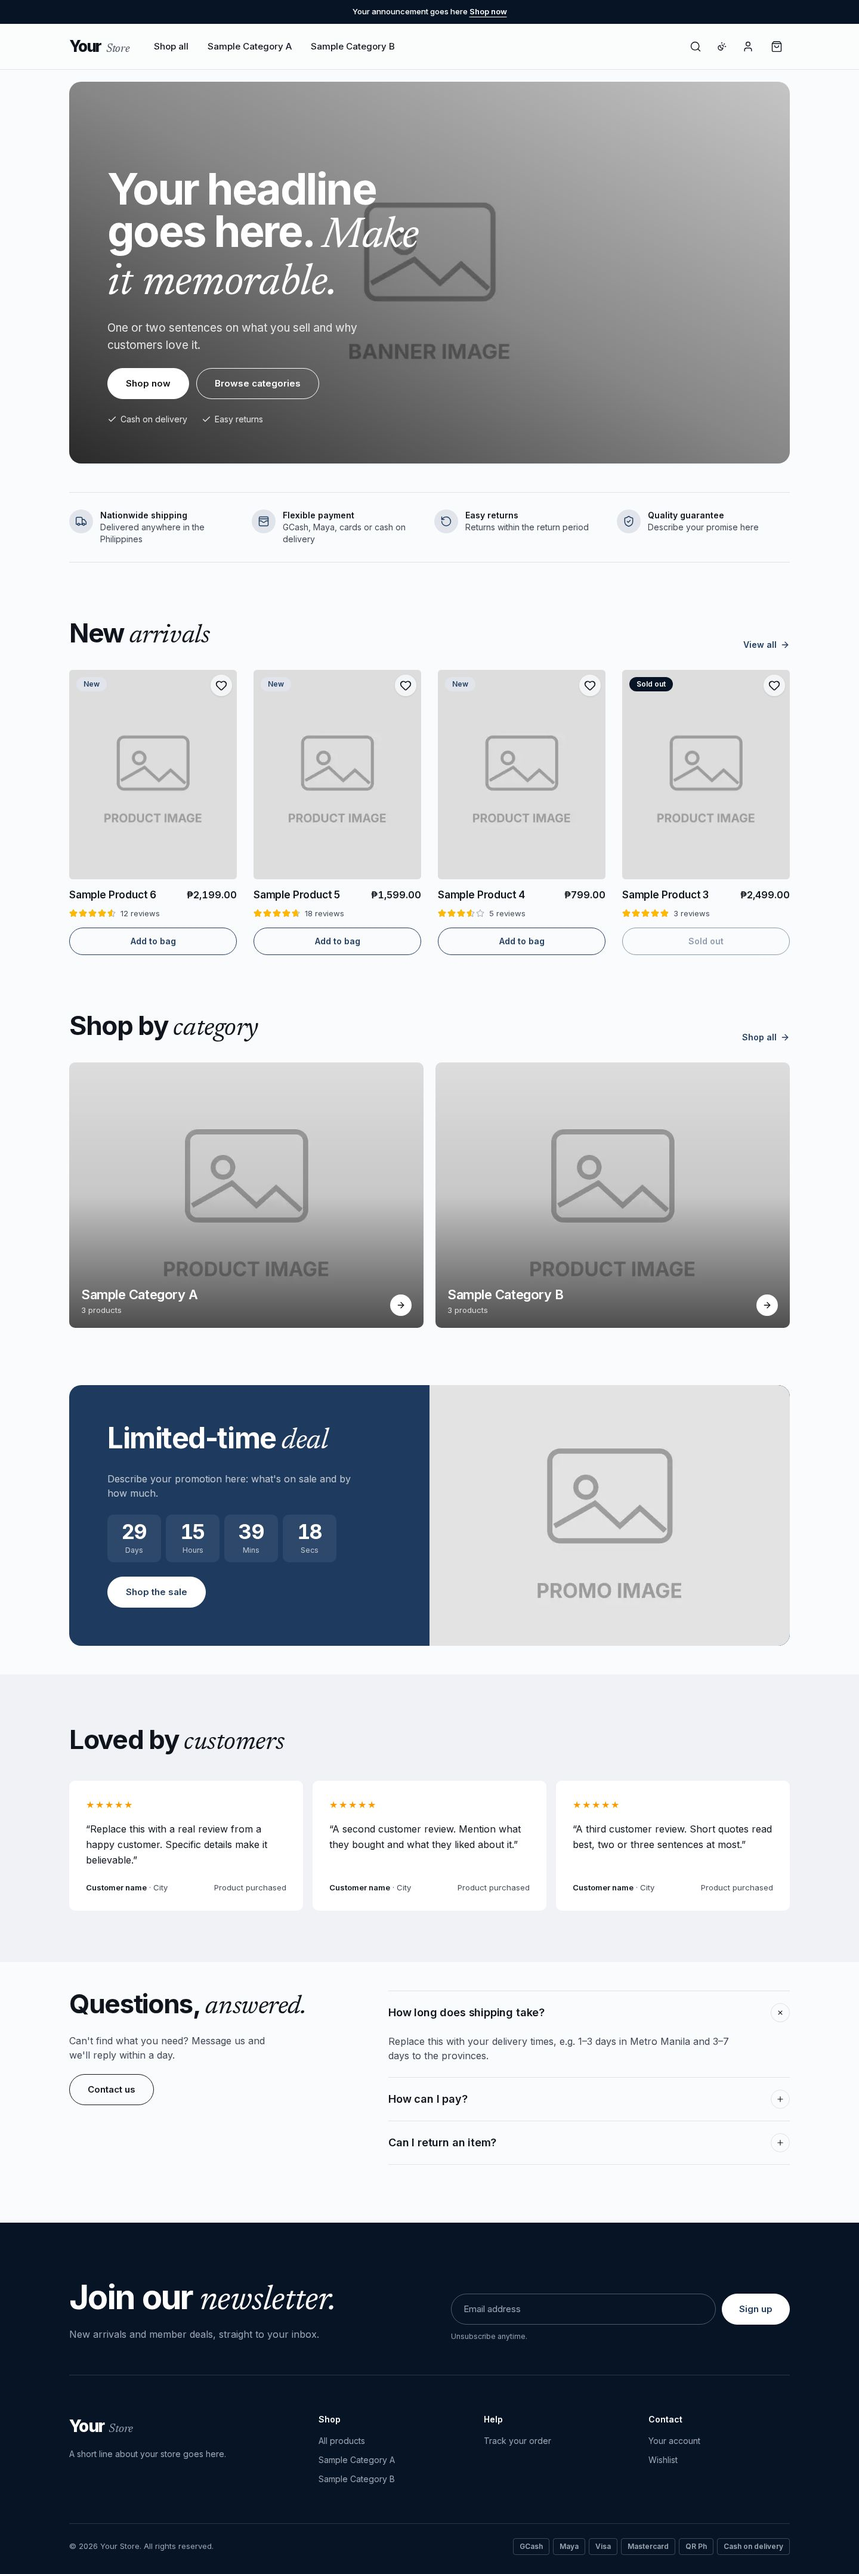
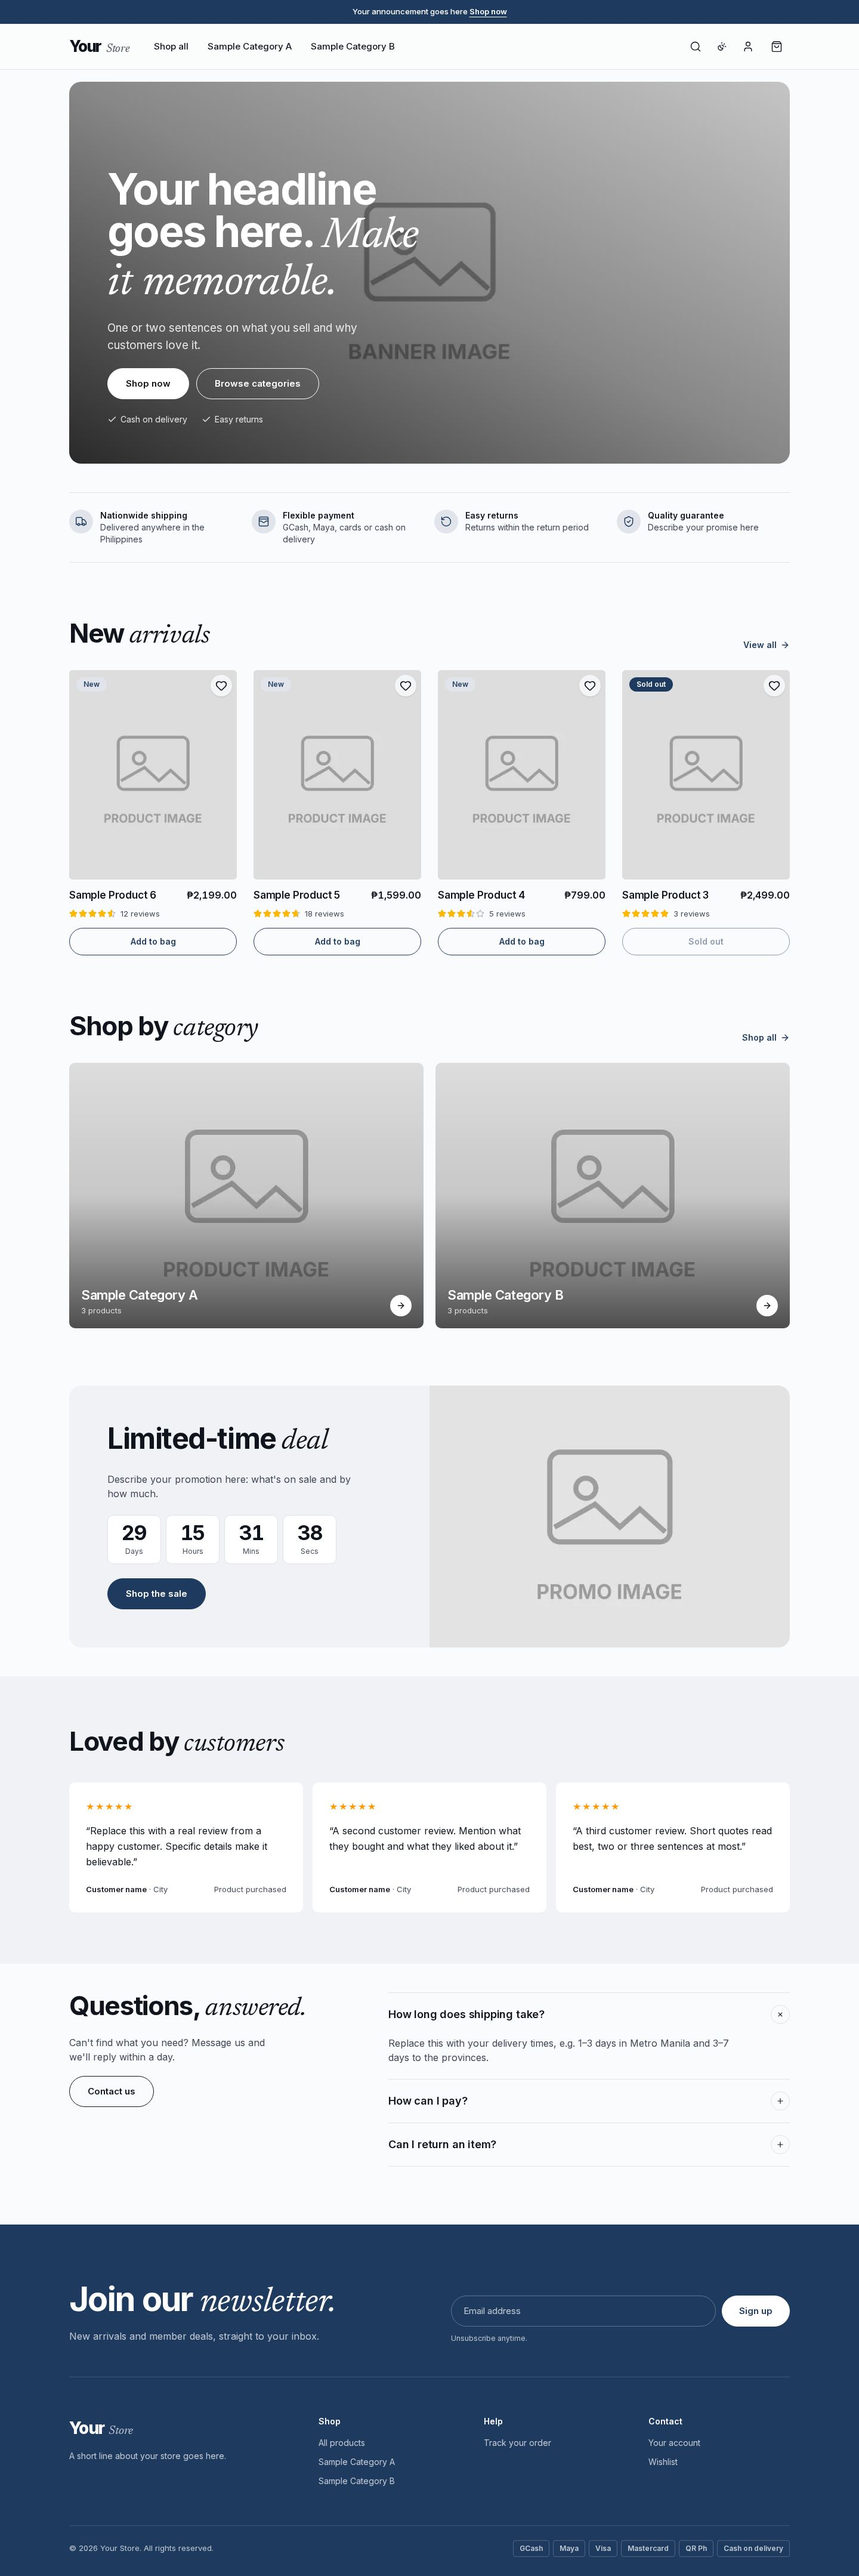
129 One dark color: accent footer, light deal card
The deal card was a block of saturated accent mid-page and the footer
a near-black shade of the accent, so the page had two competing darks.

- Footer and announcement bar use the accent itself, the same color as
  the buttons
- The deal card is a light tinted card with white countdown tiles and an
  accent button, so the urgency comes from the timer, not a color block

README screenshots retaken.

diff --git a/components/deal-countdown.tsx b/components/deal-countdown.tsx
@@ -44,11 +44,11 @@ const isFinished = (time: TimeRemaining) =>
   time.days + time.hours + time.minutes + time.seconds === 0;
 
 const StatBox = ({ label, value }: { label: string; value: number }) => (
-  <li className="flex flex-col items-center rounded-[var(--radius)] bg-[var(--tone-panel)] px-2 py-3">
+  <li className="flex flex-col items-center rounded-[var(--radius)] border bg-card px-2 py-3">
     <span className="text-[clamp(24px,2.6vw,34px)] font-bold leading-none tracking-[-0.03em] tabular-nums">
       {String(value).padStart(2, "0")}
     </span>
-    <span className="mt-1.5 text-xs text-[var(--tone-muted)]">{label}</span>
+    <span className="mt-1.5 text-xs text-muted-foreground">{label}</span>
   </li>
 );
 
@@ -76,13 +76,14 @@ const DealCountdown = ({
 
   return (
     <Section>
-      <div className="tone-brand grid overflow-hidden rounded-[calc(var(--radius)*2)] bg-[var(--brand)] text-[var(--brand-foreground)] lg:grid-cols-2">
+      {/* A calm tinted card: the countdown and button carry the urgency */}
+      <div className="grid overflow-hidden rounded-[calc(var(--radius)*2)] bg-[var(--stone)] lg:grid-cols-2">
         <div className="flex min-w-0 flex-col justify-center gap-6 p-[clamp(24px,5vw,64px)]">
           <h2 className="h-section text-[clamp(1.75rem,3.6vw,3rem)]">
             {ended ? "This deal has ended" : <AccentText text={title} />}
           </h2>
 
-          <p className="max-w-[44ch] text-[var(--tone-muted)]">
+          <p className="max-w-[44ch] text-muted-foreground">
             {ended ? "Check out our latest products and promotions." : description}
           </p>
 
@@ -98,14 +99,14 @@ const DealCountdown = ({
 
           {ctaText && ctaUrl && (
             <div>
-              <Link href={ended ? "/search" : ctaUrl} className={pillButton.light}>
+              <Link href={ended ? "/search" : ctaUrl} className={pillButton.dark}>
                 {ended ? "View products" : ctaText}
               </Link>
             </div>
           )}
         </div>
 
-        <div className="relative flex aspect-[4/3] min-w-0 items-center justify-center bg-[var(--tone-panel)] lg:aspect-auto lg:min-h-[26rem]">
+        <div className="relative flex aspect-[4/3] min-w-0 items-center justify-center bg-[var(--backdrop)] lg:aspect-auto lg:min-h-[26rem]">
           {imageUrl ? (
             <Image src={imageUrl} alt="" fill sizes="(min-width: 1024px) 50vw, 100vw" className="object-cover" />
           ) : (

diff --git a/app/globals.css b/app/globals.css
@@ -223,9 +223,11 @@ html.dark .upload-field .text-white {
   --stone: color-mix(in oklab, var(--brand) 6%, #ffffff);
   --backdrop: color-mix(in oklab, var(--brand) 8%, #ffffff);
   --line: color-mix(in oklab, var(--brand) 13%, #ffffff);
-  --night: color-mix(in oklab, var(--brand) 55%, #000000);
-  --on-night: #ffffff;
-  --on-night-muted: color-mix(in oklab, var(--brand) 25%, #ffffff 60%);
+  /* Footer and announcement bar: the accent itself, so the page has one
+     dark color, the same one as the buttons */
+  --night: var(--brand);
+  --on-night: var(--brand-foreground);
+  --on-night-muted: color-mix(in oklab, var(--brand-foreground) 72%, transparent);
   /* The brand as text or outline on the page ground */
   --brand-ink: var(--brand);
   /* A soft brand wash for badges and highlights */
@@ -267,7 +269,9 @@ html.dark .upload-field .text-white {
   --stone: color-mix(in oklab, var(--brand) 16%, #111113);
   --backdrop: color-mix(in oklab, var(--brand) 18%, #161618);
   --line: color-mix(in oklab, var(--brand) 22%, #26262a);
-  --night: color-mix(in oklab, var(--brand) 25%, #000000);
+  --night: color-mix(in oklab, var(--brand) 40%, #000000);
+  --on-night: #fafafa;
+  --on-night-muted: #a1a1aa;
   /* Dark accents need lifting to read on a dark page */
   --brand-ink: color-mix(in oklab, var(--brand) 45%, #ffffff);
   --brand-soft: color-mix(in oklab, var(--brand) 35%, #111113);
